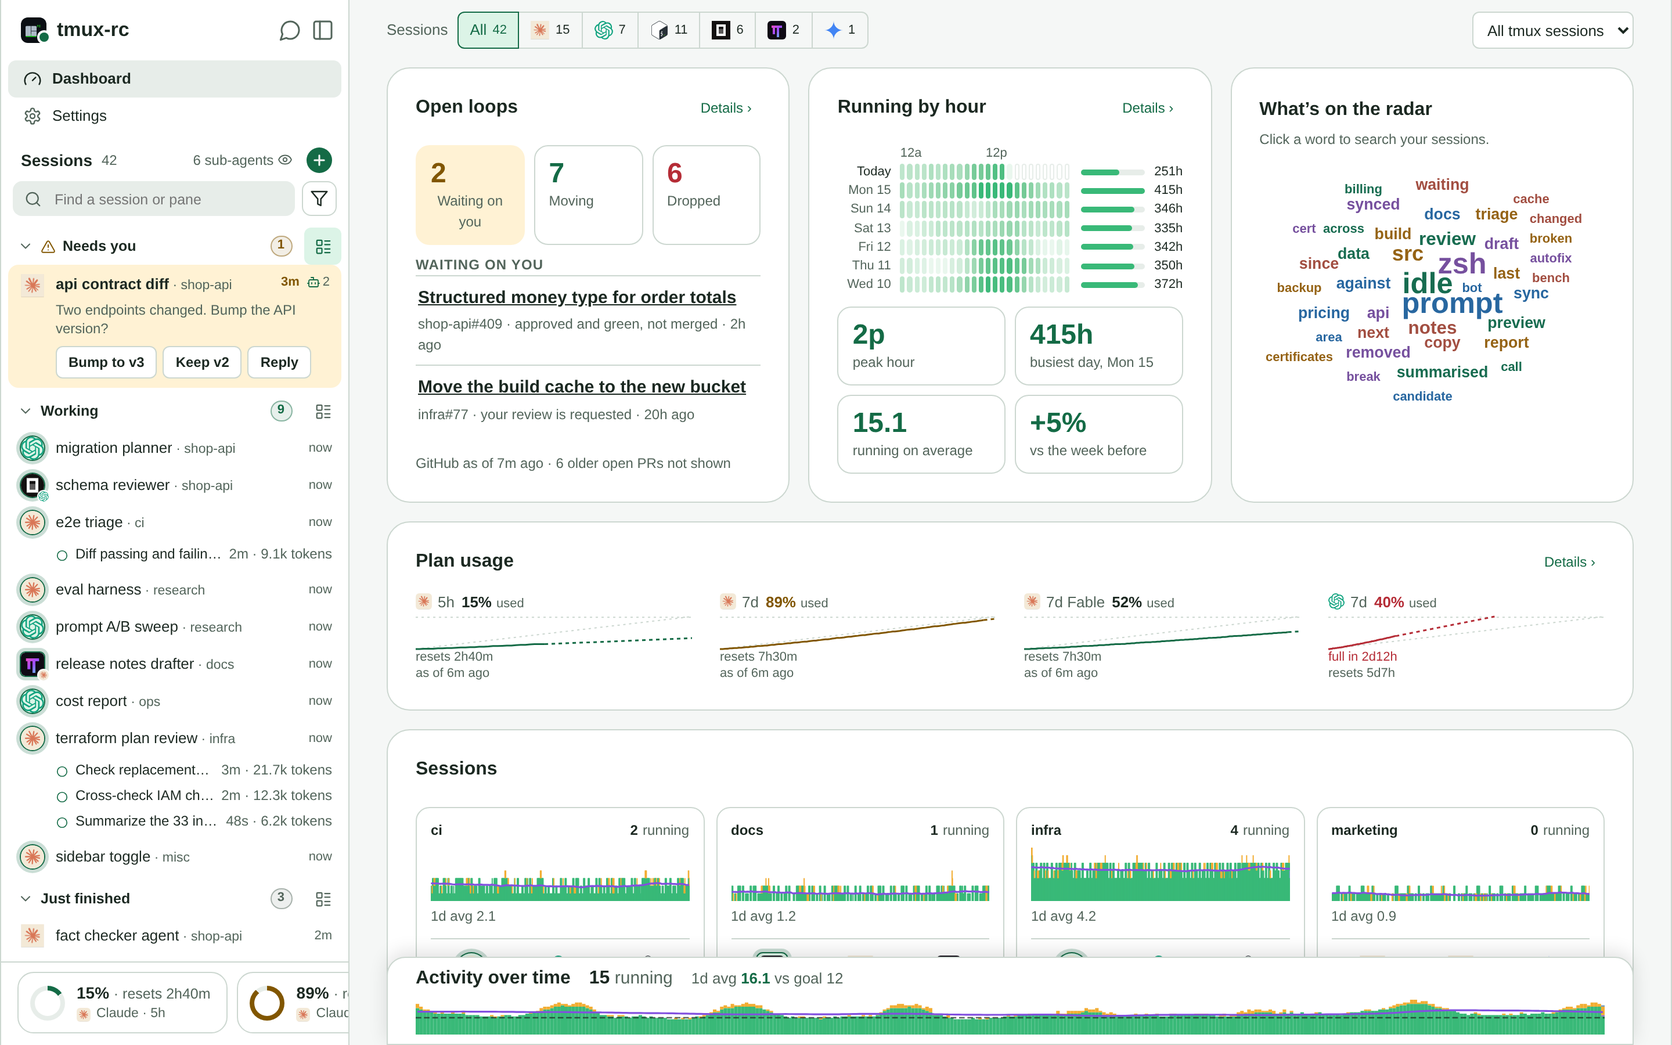
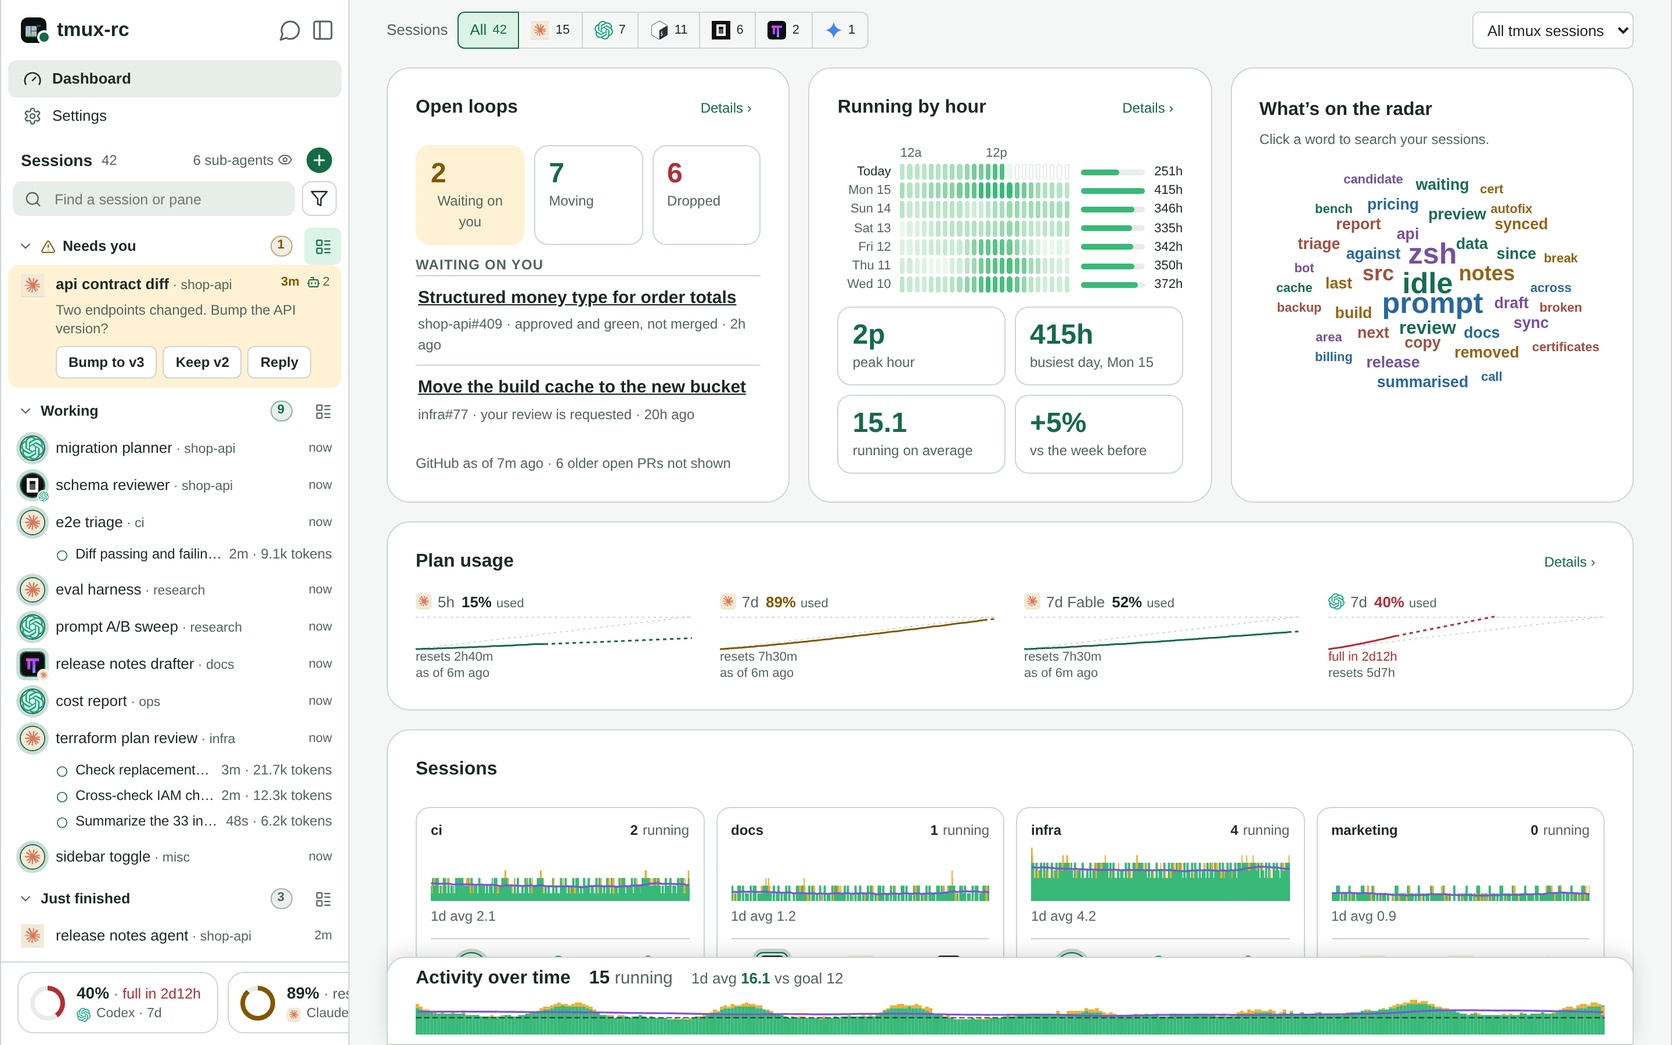
Scrub private content from the tree: invented samples, placeholders, fresh shots (#461)
* Scrub private content from the tree: invented samples, placeholders, fresh shots

- Delete three orphaned research screenshots of real panes (nothing reads them).
- Rebuild eval samples 17, 25, 26, 27, 57 and 63 around invented projects, keeping
  each sample's structure and expected fields; real-looking Codex thread ids in
  samples, the closing-question corpus and tests become obviously fake ones.
- Parser prompt, prompt snapshot, docs and tests use invented session and branch
  names in their examples.
- .env.example and the telemetry docstring stop naming specific infrastructure;
  both values already come from the environment.
- Demo fleet and design mocks rename one pane; screenshots and design-study images
  regenerated from them.

* Prompt, docs and test examples: the same invented names as #460, so the two merge cleanly

* Telemetry docstring: name what comes from the receiver's operator

* Samples 17, 25, 27, 57, 63: invented counts, sizes and usage too; 57's preamble is a new short task

* Parse cadence test: the pane label and title use the invented project name

* Research captures working.txt and rewind.txt rebuilt as invented panes of the same shape

* Research working capture: invented elapsed time and token count

---------

Changed region(s): [[0.75, 0.1556, 0.9375, 0.4044], [0.0312, 0.9333, 0.2188, 0.9956], [0.0312, 0.8711, 0.1562, 0.9022]]

diff --git a/docs-site/static/design/fleet-layouts.html b/docs-site/static/design/fleet-layouts.html
@@ -368,7 +368,7 @@ shell:'<rect width="28" height="28" fill="#3b4a42"/><path d="m8 10 4 4-4 4M14 19
 const logo=(tool,s=28,work=false)=>`<span class="lg${work?' working':''}" data-tool="${tool}" style="width:${s}px;height:${s}px"><svg viewBox="0 0 28 28" aria-hidden="true">${MARK[tool]}</svg></span>`;
 /* ---------- mock sessions: invented names, counts agree with the chips ---------- */
 const ROWS=[
-{t:'fact checker agent',s:'storefront-0',tool:'claude',st:'idle',recent:1,x:'Waiting for preview build to complete after updating the agent review docs.',age:'2m'},
+{t:'release notes agent',s:'storefront-0',tool:'claude',st:'idle',recent:1,x:'Waiting for preview build to complete after updating the agent review docs.',age:'2m'},
 {t:'release notes drafter',s:'docs-1',tool:'claude',st:'run',x:'Summarising merged changes since the last tag into a draft.',age:'now'},
 {t:'migration planner',s:'storefront-2',tool:'codex',st:'run',x:'Mapping table dependencies before proposing the ordering.',age:'now'},
 {t:'flaky test hunter',s:'ci-3',tool:'claude',st:'need',x:'Two reruns disagree. Choose which suite to quarantine.',age:'4m'},
@@ -439,8 +439,8 @@ const termBody=()=>`<div class="term">${TERM.map(([c,t])=>`<div class="${c}">${t
 const layoutSeg=()=>`<span class="seg"><button aria-pressed="true">Auto</button><button>Side</button><button>Stack</button></span>`;
 function detail(o={}){
  const lay=o.layout||'select',merge=lay=='merge';
- const ph=merge?'':`<div class="ph"><div><strong>fact checker agent</strong><small>storefront-0 / fact checker agent</small></div>${lay=='select'?`<span class="lay">Layout <span class="sel">Auto ${ico('down',14)}</span></span>`:''}${o.phx||''}</div>`;
- const tbl=merge?`<strong>fact checker agent</strong><span>storefront-0</span>`:`<span>Live terminal</span>`;
+ const ph=merge?'':`<div class="ph"><div><strong>release notes agent</strong><small>storefront-0 / release notes agent</small></div>${lay=='select'?`<span class="lay">Layout <span class="sel">Auto ${ico('down',14)}</span></span>`:''}${o.phx||''}</div>`;
+ const tbl=merge?`<strong>release notes agent</strong><span>storefront-0</span>`:`<span>Live terminal</span>`;
  return `<section class="detail">${ph}<div class="dgrid"><div class="tcol"><div class="tb">${tbl}<span class="sp"></span>${lay=='seg'||merge?layoutSeg():''}<button class="ib sm">${ico('minus',16)}</button><span>13</span><button class="ib sm">${ico('plus',16)}</button><span class="selbtn">Select</span><button class="ib sm">${ico('arrowdown',16)}</button></div>${termBody()}</div>
  <aside class="ovc">${o.ovTop||''}<div class="ovb"><div class="badge"><span>Idle</span><span>claude</span></div><h2>Waiting for preview build to complete after updating Agent Review documentation and UI</h2><p>Docs and UI changes are pushed. The preview is rebuilding and the check will rerun when it finishes.</p><div><h3>Links</h3><div class="lk">${ico('link',14)}PR 412, Agent review docs</div><div class="lk">${ico('link',14)}Preview deploy, build log</div></div><div><h3>Tasks 3 of 5</h3><div class="tk d"><i></i>Update the review docs</div><div class="tk d"><i></i>Add the approval wording</div><div class="tk d"><i></i>Push and open the PR</div><div class="tk"><i></i>Check the preview renders</div></div><div><h3>Activity history</h3><div class="ev"><time>14:02</time>Idle, waiting on preview</div><div class="ev"><time>13:58</time>Pushed 2 commits</div><div class="ev"><time>13:51</time>Running</div></div></div></aside></div></section>`;}
 function wide(o){return `<div class="fr">${o.rail||''}<div class="col">${o.header}${o.strip||''}<div class="body">${o.left||left()}${o.detail||detail()}</div>${o.status||''}</div>${o.pop||''}</div>`;}
@@ -505,7 +505,7 @@ const V=[
  build:()=>`<div class="fr phone">${hd('',ib('bell','Notifications')+gear('gearP3'),{dot:true})}${left({search:false,nav:false,afterHead:`<div class="cardrow">${bigNow(26)}<span class="mut" style="font-size:12px;line-height:1.2">running<br>${S.range}</span>${spark({w:178,h:38,mode:'stack',target:S.goal,act:dashToast})}<span style="flex:1"></span><span class="goalpill" style="padding:3px 7px">${ico('target',13)}${stats().pct}%</span></div><div class="chiprow">${NAV.map(([k,l])=>`<button class="chip ${k=='attention'?'need':''}" ${flt(k)}>${l} <b>${CNT[k]}</b></button>`).join('')}</div>`,navHtml:`<nav class="bnav">${[['layers','Sessions',1],['dash','Dashboard'],['chat','Chat'],['mic','Live']].map(([i,l,p])=>`<button aria-pressed="${!!p}">${ico(i,20)}<span>${l}</span></button>`).join('')}</nav>`})}</div>`},
 {id:'P4',grp:'5 · Phone',name:'Fleet chip inside a pane',frame:'phone',line:'While in a pane, the header keeps the sparkline chip so fleet state stays in view next to the terminal.',
  fixes:'The pane screen has no fleet signal at all today; this puts it there for 88px of header.',costs:'Header carries back, title and the chip, so the title truncates earlier.',inter:'Tap the chip for the fleet sheet from P2. The amber number is Needs you, tap to jump to the next one.',clutter:'Settings and the Overview / Terminal toggle stay as today.',tbl:['Header chip, pane view','Unchanged','Yes','In sheet','Full width'],
- build:()=>`<div class="fr phone"><header class="hd" style="gap:6px;padding:0 8px">${ib('back','Back to sessions')}<div style="flex:1;min-width:0"><strong style="display:block;font-size:15px;white-space:nowrap;overflow:hidden;text-overflow:ellipsis">fact checker agent</strong><small class="mut" style="display:block">storefront-0</small></div><button class="chip" style="height:34px;padding:0 10px;gap:7px">${spark({w:56,h:20,mode:'area'})}<b>${CNT.running}</b><b style="color:var(--amber)">${CNT.attention}</b></button>${gear('gearP4')}</header><div class="viewtog"><span class="seg" style="flex:1"><button style="flex:1" aria-pressed="false">Overview</button><button style="flex:1" aria-pressed="true">Terminal</button></span></div><div class="tcol" style="flex:1"><div class="tb" style="padding-left:12px"><span>Live terminal</span><span class="sp"></span><button class="ib sm">${ico('minus',16)}</button><span>13</span><button class="ib sm">${ico('plus',16)}</button><button class="ib sm">${ico('arrowdown',16)}</button></div>${termBody()}</div><div style="display:flex;gap:8px;padding:8px 10px 18px;border-top:1px solid var(--line);background:var(--surface)">${ib('terminal','Keys')}<div class="search" style="flex:1;margin:0;height:40px">Reply to the agent</div>${ib('arrowdown','Send','acc')}</div></div>`}
+ build:()=>`<div class="fr phone"><header class="hd" style="gap:6px;padding:0 8px">${ib('back','Back to sessions')}<div style="flex:1;min-width:0"><strong style="display:block;font-size:15px;white-space:nowrap;overflow:hidden;text-overflow:ellipsis">release notes agent</strong><small class="mut" style="display:block">storefront-0</small></div><button class="chip" style="height:34px;padding:0 10px;gap:7px">${spark({w:56,h:20,mode:'area'})}<b>${CNT.running}</b><b style="color:var(--amber)">${CNT.attention}</b></button>${gear('gearP4')}</header><div class="viewtog"><span class="seg" style="flex:1"><button style="flex:1" aria-pressed="false">Overview</button><button style="flex:1" aria-pressed="true">Terminal</button></span></div><div class="tcol" style="flex:1"><div class="tb" style="padding-left:12px"><span>Live terminal</span><span class="sp"></span><button class="ib sm">${ico('minus',16)}</button><span>13</span><button class="ib sm">${ico('plus',16)}</button><button class="ib sm">${ico('arrowdown',16)}</button></div>${termBody()}</div><div style="display:flex;gap:8px;padding:8px 10px 18px;border-top:1px solid var(--line);background:var(--surface)">${ib('terminal','Keys')}<div class="search" style="flex:1;margin:0;height:40px">Reply to the agent</div>${ib('arrowdown','Send','acc')}</div></div>`}
 ];
 const G2='6 · Single sidebar (riffs on I)';
 /* ================= Round 2: one chatbot-style sidebar (riffs on I) =================
@@ -517,7 +517,7 @@ Object.assign(IC,{panel:'<rect width="18" height="18" x="3" y="3" rx="2"/><path 
  expand:'<path d="M15 3h6v6M9 21H3v-6M21 3l-7 7M3 21l7-7"/>',zoom:'<circle cx="11" cy="11" r="8"/><path d="m21 21-4.3-4.3M11 8v6M8 11h6"/>'});
 const SESS2=['storefront-0','ci-3','research-4','docs-1','ops-7','infra-6','gtm-9','misc-5'];
 /* session|tool|state|title|age|u (unread) or the question a needs-you pane is asking|latest activity line, or a needs-you pane's reply choices */
-const ROWS2=`0|claude|idle|fact checker agent|2m||Waiting for the preview build after updating the agent review docs.
+const ROWS2=`0|claude|idle|release notes agent|2m||Waiting for the preview build after updating the agent review docs.
 0|codex|run|migration planner|now||Mapping table dependencies before proposing an order.
 0|opencode|run|schema reviewer|now||Checking the new column constraints against live data.
 0|claude|need|api contract diff|3m|Two endpoints changed shape. Bump the public API version?|Bump to v3,Keep v2
@@ -699,7 +699,7 @@ const R2V=[
  costs:'The sheet covers the composer while open; at 358px brush zoom is too fiddly, so the phone zooms by range only.',
  inter:'Drag the grab handle or tap the strip. Chips filter the drawer list. Goal editor open here.',
  clutter:'Header: drawer icon, pane title and a fleet chip.',tbl:['Bottom sheet','Drawer','On demand','Editable','Full width'],
- build:()=>FW<700?`<div class="fr phone"><header class="hd" style="gap:6px;padding:0 8px">${ib('panel','Open sidebar')}<div style="flex:1;min-width:0"><strong style="display:block;font-size:15px;white-space:nowrap;overflow:hidden;text-overflow:ellipsis">fact checker agent</strong><small class="mut" style="display:block">storefront-0</small></div><button class="chip" data-act="toggle:psh" style="height:34px;padding:0 10px;gap:7px">${chart2({w:56,h:20})}<b>${CNT2.run}</b><b style="color:var(--amber)">${CNT2.need}</b></button></header><div class="tcol" style="flex:1">${termBody()}</div>${phSheet()}</div>`:R2V[1].build()}];
+ build:()=>FW<700?`<div class="fr phone"><header class="hd" style="gap:6px;padding:0 8px">${ib('panel','Open sidebar')}<div style="flex:1;min-width:0"><strong style="display:block;font-size:15px;white-space:nowrap;overflow:hidden;text-overflow:ellipsis">release notes agent</strong><small class="mut" style="display:block">storefront-0</small></div><button class="chip" data-act="toggle:psh" style="height:34px;padding:0 10px;gap:7px">${chart2({w:56,h:20})}<b>${CNT2.run}</b><b style="color:var(--amber)">${CNT2.need}</b></button></header><div class="tcol" style="flex:1">${termBody()}</div>${phSheet()}</div>`:R2V[1].build()}];
 V.unshift(...R2V);
 const G3='7 · I3 + I5 hybrid (round 3)';
 /* ================= Round 3: I3's docked chart with I5's inbox =================
@@ -748,7 +748,7 @@ function ph3(id,open){const k='psh3:'+id,sn=[128,Math.round(FH*.5),FH-64],h=sz(k
 const r3=(id,f)=>()=>{if(FW<700)return ph3(id);const sbw=FW<1100?60:SB3;return f(sbw==60?rail2():sidebar3(id,{spark:id=='R3f'}),FW-sbw,FW-sbw-32);};
 const xb=k=>`<button class="ib sm" data-act="toggle:${k}" title="Close" aria-label="Close">${ico('x',18)}</button>`;
 function dash3(mw){const w=mw-48;
- return `<section class="detail"><div class="ph"><button class="ib" data-act="toggle:r3d" title="Back to the pane" aria-label="Back to the pane">${ico('back',18)}</button><div><strong>Fleet dashboard</strong><small>${ROWS2.length} panes in ${SESS2.length} sessions · Back returns to fact checker agent</small></div>${maTxt(1)}${range2()}</div>
+ return `<section class="detail"><div class="ph"><button class="ib" data-act="toggle:r3d" title="Back to the pane" aria-label="Back to the pane">${ico('back',18)}</button><div><strong>Fleet dashboard</strong><small>${ROWS2.length} panes in ${SESS2.length} sessions · Back returns to release notes agent</small></div>${maTxt(1)}${range2()}</div>
  <div style="padding:8px 24px 16px;display:grid;gap:10px;align-content:start;overflow:hidden;flex:1;min-height:0"><div class="dkh" style="padding:0;height:auto;flex-wrap:wrap">${legend2()}<span class="sp"></span>${zoomCtl()}${maSeg()}${goalCtl('ge3')}</div>${chart2({w,h:Math.max(160,Math.min(300,FH-560)),axis:1,brush:1})}<div class="dkh" style="padding:0;height:32px">${bySeg()}<span class="sp"></span><span class="mut" style="font-size:12px">Hover a card for its history. Cards share one scale. Click to filter the sidebar.</span></div>${smGrid(w,w>900?4:2,48)}</div></section>`;}
 const NAV3='Hybrid sidebar: Needs you cards, then groups by state or session';
 const R3V=[

diff --git a/docs-site/static/mocks/sidebar-expand.html b/docs-site/static/mocks/sidebar-expand.html
@@ -299,7 +299,7 @@ const RAW = [
     [A("Sampling 10k rows from orders", R, "48s", "3.9k")]],
   ["shop-api", "claude", "Opus 5", "run", "refund flow fix", "now", "Writing a regression test for partial refunds.", "", [],
     [A("Running the unit suite", R, "1m", "8.0k"), A("Searching for other refund call sites", R, "2m", "12.5k"), A("Reviewing the webhook handler", R, "40s", "2.2k")]],
-  ["shop-api", "claude", "Sonnet 5", "done", "fact checker agent", "2m", "Waiting for the preview build after updating review docs.", "", [],
+  ["shop-api", "claude", "Sonnet 5", "done", "release notes agent", "2m", "Waiting for the preview build after updating review docs.", "", [],
     [A("Checking claims against the API docs", D, "3m", "17.0k"), A("Verifying code samples compile", D, "2m", "9.4k")]],
   ["shop-api", "claude", "Opus 5", "idle", "preview deploy", "2h", "Deployed. Link posted in the PR thread.", "", [], [A("Smoke-testing the preview URL", D, "1m", "3.1k")]],
   ["shop-api", "shell", "", "idle", "zsh ~/src/shop-api", "41m", "git status: clean, on main.", "", [], []],

diff --git a/tests/test_classify.py b/tests/test_classify.py
@@ -10,10 +10,10 @@ from openbus.tmux import Pane
 
 
 def test_opaque_session_identifiers_are_not_titles():
-    for name in ("01a0e9d1-093d-7c10-84f4-133c9544c971", " ABCDEF0123456789 "):
+    for name in ("00000000-0000-7000-8000-000000000001", " ABCDEF0123456789 "):
         result = classify(_pane(), "text", _llm({"session": name, "activity": "idle"}))
         assert "session" not in result
-    for name in ("gpt-5 migration", "airbyte-value-population", "Review 4955", "deadbeef"):
+    for name in ("gpt-5 migration", "csv-export-retry", "Review 4955", "deadbeef"):
         capture = f"› input\n{name} · gpt-6-sol · ~/src/app"
         result = classify(_pane("node"), capture, _llm({
             "tool": "codex", "session": name, "activity": "idle",
@@ -57,7 +57,7 @@ def test_bootstrap_rejects_junk():
 
 def test_bootstrap_rejects_non_title_names():
     for name in ("~/src/app", "/src/app", "docs/metadata-design",
-                 "01a0e9d1-093d-7c10-84f4-133c9544c971"):
+                 "00000000-0000-7000-8000-000000000001"):
         result = bootstrap(_pane("node"), "ordinary history", _llm({
             "summary": "Working on parser behavior", "name": name,
         }))
@@ -756,7 +756,7 @@ def test_background_terminal_hint_is_scoped_to_current_section():
 
 def test_codex_title_requires_current_ui_evidence():
     capture = ("› Ask Codex to do anything\n\n"
-               "01a0e9d1-093d-7c10-84f4-133c9544c971 · gpt-6-astra medium · "
+               "00000000-0000-7000-8000-000000000001 · gpt-6-astra medium · "
                "Context 52% left · ~/src/tmux-rc · Ready")
     result = classify(_pane("node"), capture, _llm({
         "tool": "codex", "session": "Track PRs per live session",
@@ -824,7 +824,7 @@ def test_failed_identity_retry_preserves_valid_current_state():
 
 
 def test_uuid_footer_does_not_freeze_completed_model_selection():
-    uuid = "01a0e9d1-093d-7c10-84f4-133c9544c971"
+    uuid = "00000000-0000-7000-8000-000000000001"
     capture = ("Select Model and Effort\n1. GPT-6-Sol\n2. GPT-6-Astra\n"
                "\x1e[visible screen]\x1f\nWorked for 8m 32s · 5:16 PM\n"
                f"› Ask Codex to do anything\n{uuid} · GPT-6.1-Sol medium · ~/src/tmux-rc")
@@ -923,10 +923,10 @@ def test_session_grounding_rejects_paths_and_quoted_output():
         capture = "{'session': 'other-pane'}\n\noutput\n\n› input\n\n~/src/app · gpt-6-sol"
         result = classify(_pane("node"), capture, _llm({"tool": "codex", "session": name}))
         assert "session" not in result
-    capture = ("› input\n\nairbyte-value-population · gpt-5.6-sol medium · "
-               "docs/query-result-metadata-design · ~/src/app · Ready")
+    capture = ("› input\n\ncsv-export-retry · gpt-5.6-sol medium · "
+               "docs/order-sync-design · ~/src/app · Ready")
     result = classify(_pane("node"), capture, _llm({
-        "tool": "codex", "session": "docs/query-result-metadata-design",
+        "tool": "codex", "session": "docs/order-sync-design",
     }))
     assert "session" not in result
 

diff --git a/openbus/telemetry.py b/openbus/telemetry.py
@@ -2,8 +2,8 @@
 
 Every classify call emits a record (model, latency, TTFT, tokens, cost, activity, …)
 to an OTLP log receiver (a small Cloud Run service: OTLP/gRPC in, Bearer auth) which
-flattens it to JSONL in object storage → QueryStory. That lets us switch
-TMUXRC_GEMINI_MODEL during real work and compare latency/cost/accuracy in QS instead of
+flattens it to JSONL in object storage for analysis. That lets us switch
+TMUXRC_GEMINI_MODEL during real work and compare latency/cost/accuracy there instead of
 running synthetic benchmarks.
 
 Privacy is client-side and fail-closed by policy:
@@ -22,10 +22,7 @@ Config (env):
   OTEL_EXPORTER_OTLP_ENDPOINT   receiver URL (gRPC). Unset ⇒ telemetry disabled.
   OTEL_EXPORTER_OTLP_HEADERS    e.g. "authorization=Bearer <token>"
   TMUXRC_QSDEBUG=1              attach raw pane text + output JSON (default: off)
-Get endpoint/token:
-  gcloud run services describe otel-receiver --region "$REGION" --project "$PROJECT" \
-    --format 'value(status.url)'
-  gcloud secrets versions access latest --secret=otel-receiver-token --project="$PROJECT"
+The endpoint and token come from whoever runs your receiver.
 """
 
 from __future__ import annotations

diff --git a/tests/test_parse_cadence.py b/tests/test_parse_cadence.py
@@ -68,13 +68,13 @@ def test_refined_label_survives_idle_ticks(monkeypatch):
 
 
 def test_explicit_title_wins_over_inferred_name_on_parse_cache_and_rename(monkeypatch):
-    w, _ = _harness(monkeypatch, ["Posthog Airbyte Connector · GPT-6-Astra medium"])
+    w, _ = _harness(monkeypatch, ["Webhook Retry Queue · GPT-6-Astra medium"])
     monkeypatch.setattr(W, "classify", lambda pane, text, **kw: {
         "activity": "idle", "events": [], "tool": "codex",
-        "session": "Posthog Airbyte Connector",
-        "label": "Posthog Airbyte Connector", "tmux_label": pane.label})
-    pane = _Pane(label="qs-app-0:17")
-    pane.display_title = "Working | qs-app | docs/query-result-metadata"
+        "session": "Webhook Retry Queue",
+        "label": "Webhook Retry Queue", "tmux_label": pane.label})
+    pane = _Pane(label="shop-api-0:17")
+    pane.display_title = "Working | shop-api | docs/order-sync"
     for _ in range(2):
         w._forced_this_tick = set()
         state = w._tick_pane(pane)

diff --git a/scripts/demo_fleet.py b/scripts/demo_fleet.py
@@ -25,7 +25,7 @@ SESSIONS = ["shop-api", "ci", "research", "docs", "ops", "infra", "marketing", "
 # session index | tool | run / need / idle | title | age | u = finished recently, or the
 # question when need | the activity line, or the reply options when need.
 ROWS = """\
-0|claude|idle|fact checker agent|2m||Waiting for the preview build after updating review docs.
+0|claude|idle|release notes agent|2m||Waiting for the preview build after updating review docs.
 0|codex|run|migration planner|now||Mapping table dependencies before proposing an order.
 0|opencode|run|schema reviewer|now||Checking the new column constraints against live data.
 0|claude|need|api contract diff|3m|Two endpoints changed. Bump the API version?|Bump to v3,Keep v2

diff --git a/research/README.md b/research/README.md
@@ -9,6 +9,8 @@ discover what fields naturally show up, before committing the architecture.
     python -m research.probe [pane_target] [--save NAME]
 
 Samples we save (capture .txt + render .png) live in `samples/` for repeatable runs.
+The committed ones are invented panes of the same shapes; the numbers below were measured on
+the captures they replaced.
 
 ## Findings so far
 
@@ -21,7 +23,7 @@ Working Claude Code pane (`samples/working`):
 | text+image | 2111 | 187 | 2.3s | 0.286 |
 
 - All three parsed the working screen correctly, incl. a real task headline
-  ("Fixing argument parsing bug in probe.py") — not just the spinner word.
+  — not just the spinner word.
 - Text and image are ~equal in cost/latency; text+image is redundant here.
 Rewind picker (`samples/rewind`) — the supposed image-wins case:
 

diff --git a/docs/agent-setup.md b/docs/agent-setup.md
@@ -26,7 +26,7 @@ would. Two consequences follow, and every recommendation below is one of them:
 You do not have to name anything — *provided the agent says who it is on screen*. The
 classifier reads the agent's own session title out of the captured text (that is what the
 `session` field in the parser prompt is for) and it becomes the pane's **label**, so the
-pane reads as *Review 4745* or *airbyte-value-population* rather than as its command.
+pane reads as *Review 4745* or *csv-export-retry* rather than as its command.
 
 That is the one setting worth changing for Codex: **include `"thread-title"` in
 `status_line`.** The parser will also take the title from a `Thread renamed to <name>`

diff --git a/docs/benchmarks/_index.md b/docs/benchmarks/_index.md
@@ -37,7 +37,8 @@ parity.
 
 ## Measured (2026-07, live)
 
-Same sample (`research/samples/working.txt`, a working Claude Code pane), same
+Same sample (`research/samples/working.txt`, a working Claude Code pane, since rebuilt as an
+invented pane of the same shape), same
 `PARSER_PROMPT`, `temperature=0`, JSON mode. Non-streaming total latency unless noted.
 
 | Model | Provider | Median total | Out tokens | Result |
